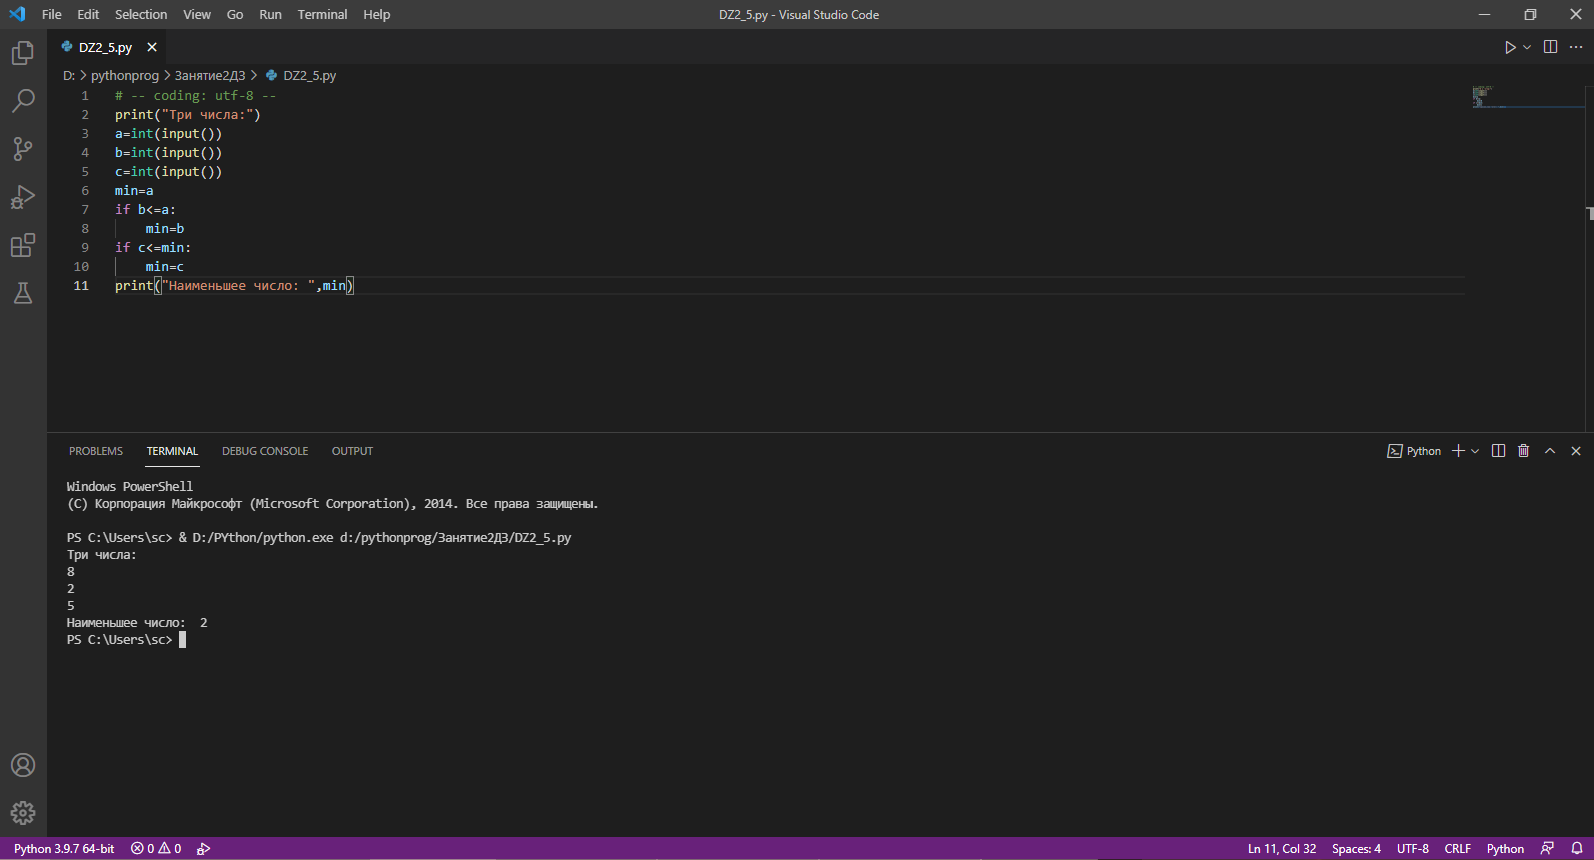
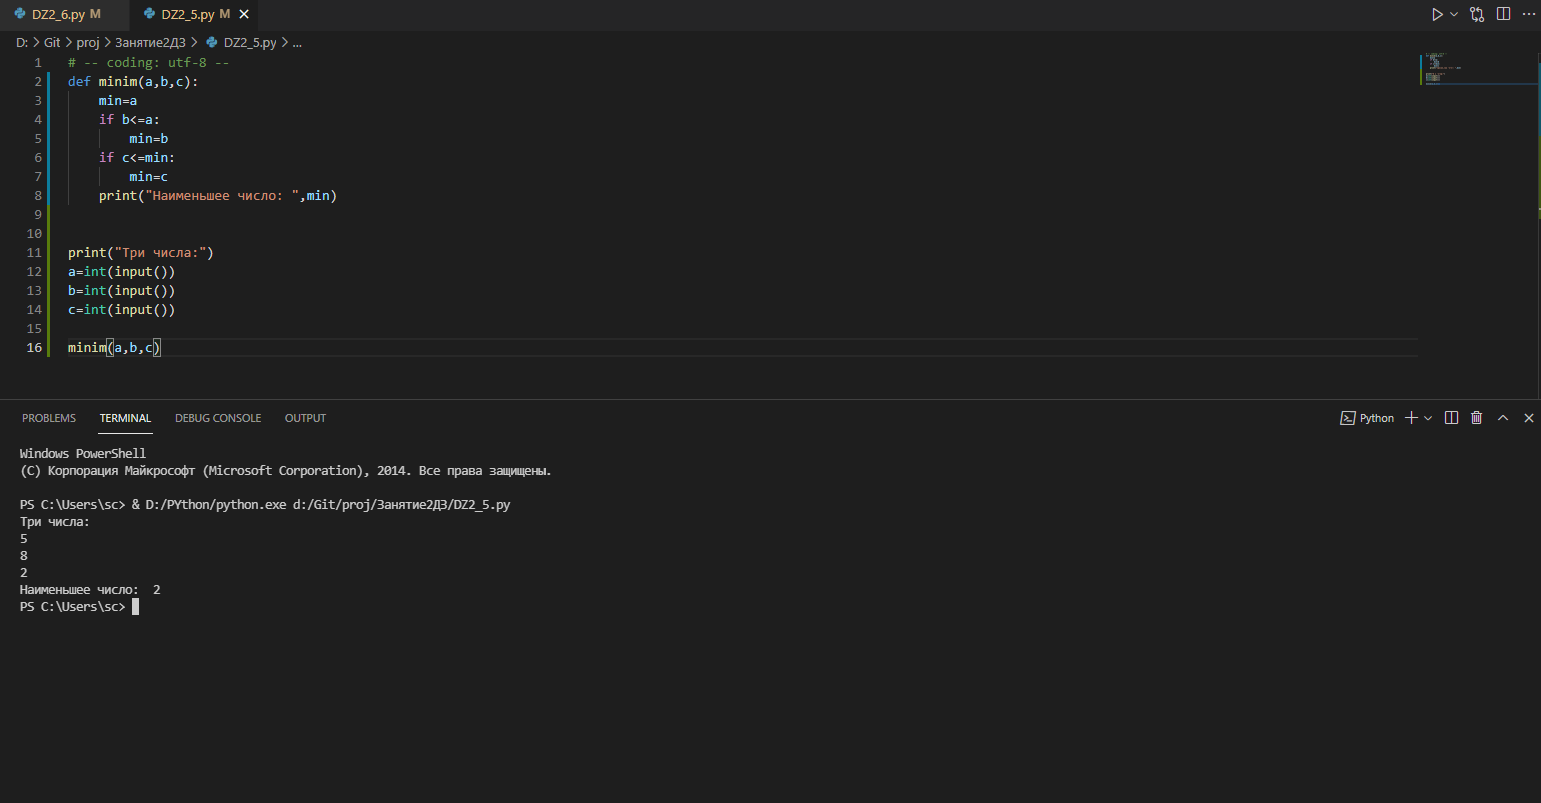
Добавил функции

diff --git a/Занятие2ДЗ/DZ2_8.py b/Занятие2ДЗ/DZ2_8.py
@@ -1,10 +1,14 @@
 # -- coding: utf-8 --
+def func(a,b,c):
+    if a==b and b==c:
+        print(3)
+    elif (a==b and b!=c) or (a!=b and b==c) or (c!=b and a==c):
+        print(2)
+    else :
+        print(0)
+
 a = int(input())
 b = int(input())
 c = int(input())
-if a==b and b==c:
-    print(3)
-elif (a==b and b!=c) or (a!=b and b==c) or (c!=b and a==c):
-    print(2)
-else :
-    print(0)
+
+func(a,b,c)

diff --git a/Занятие2ДЗ/DZ2_4.py b/Занятие2ДЗ/DZ2_4.py
@@ -1,9 +1,12 @@
 # -- coding: utf-8 --
 print("Введите a,b,l,N, переменные <> нулю")
+def len(a,b,l,N):
+    len=l*2+b*(N-2)+a*(N-1)
+    print("Длина шнурка должна быть = ",len)
+
 a=int(input())
 b=int(input())
 l=int(input())
 N=int(input())
-len=l*2+b*(N-2)+a*(N-1)
-print("Длина шнурка должна быть = ",len)
 
+len(a,b,l,N)

diff --git a/Занятие2ДЗ/DZ2_5.py b/Занятие2ДЗ/DZ2_5.py
@@ -1,11 +1,16 @@
 # -- coding: utf-8 --
+def minim(a,b,c):
+    min=a
+    if b<=a:
+        min=b
+    if c<=min:
+        min=c
+    print("Наименьшее число: ",min)    
+
+
 print("Три числа:")
 a=int(input())
 b=int(input())
 c=int(input())
-min=a
-if b<=a:
-    min=b
-if c<=min:
-    min=c
-print("Наименьшее число: ",min)
+
+minim(a,b,c)

diff --git a/Занятие2ДЗ/DZ2_7.py b/Занятие2ДЗ/DZ2_7.py
@@ -1,6 +1,10 @@
 # -- coding: utf-8 --
+def year(a):
+    if (a%4 == 0 and a%100 != 0) or (a%400 == 0):
+        print("Високосный")
+    else:
+        print("Обычный")
+
 a = int(input())
-if (a%4 == 0 and a%100 != 0) or (a%400 == 0):
-    print("Високосный")
-else:
-    print("Обычный")
+
+year(a)

diff --git a/Занятие2ДЗ/DZ2_9.py b/Занятие2ДЗ/DZ2_9.py
@@ -1,8 +1,12 @@
 # -- coding: utf-8 --
+def choc(n,m,k):
+    if (k < n * m) and ((k % n == 0) or (k % m == 0)):
+        print('YES')
+    else:
+        print('NO')
+
 n = int(input())
 m = int(input())
 k = int(input())
-if (k < n * m) and ((k % n == 0) or (k % m == 0)):
-    print('YES')
-else:
-    print('NO')
+
+choc(n,m,k)

diff --git a/Занятие2ДЗ/DZ2_6.py b/Занятие2ДЗ/DZ2_6.py
@@ -1,9 +1,14 @@
 # -- coding: utf-8 --
+def func(a,b,c,d):
+    if (a+b+c+d) % 2 == 0:
+        print('YES')
+    else:
+        print('NO')
+
+
 a = int(input())
 b = int(input())
 c = int(input())
 d = int(input())
-if (a+b+c+d) % 2 == 0:
-    print('YES')
-else:
-    print('NO')
+
+func(a,b,c,d)
